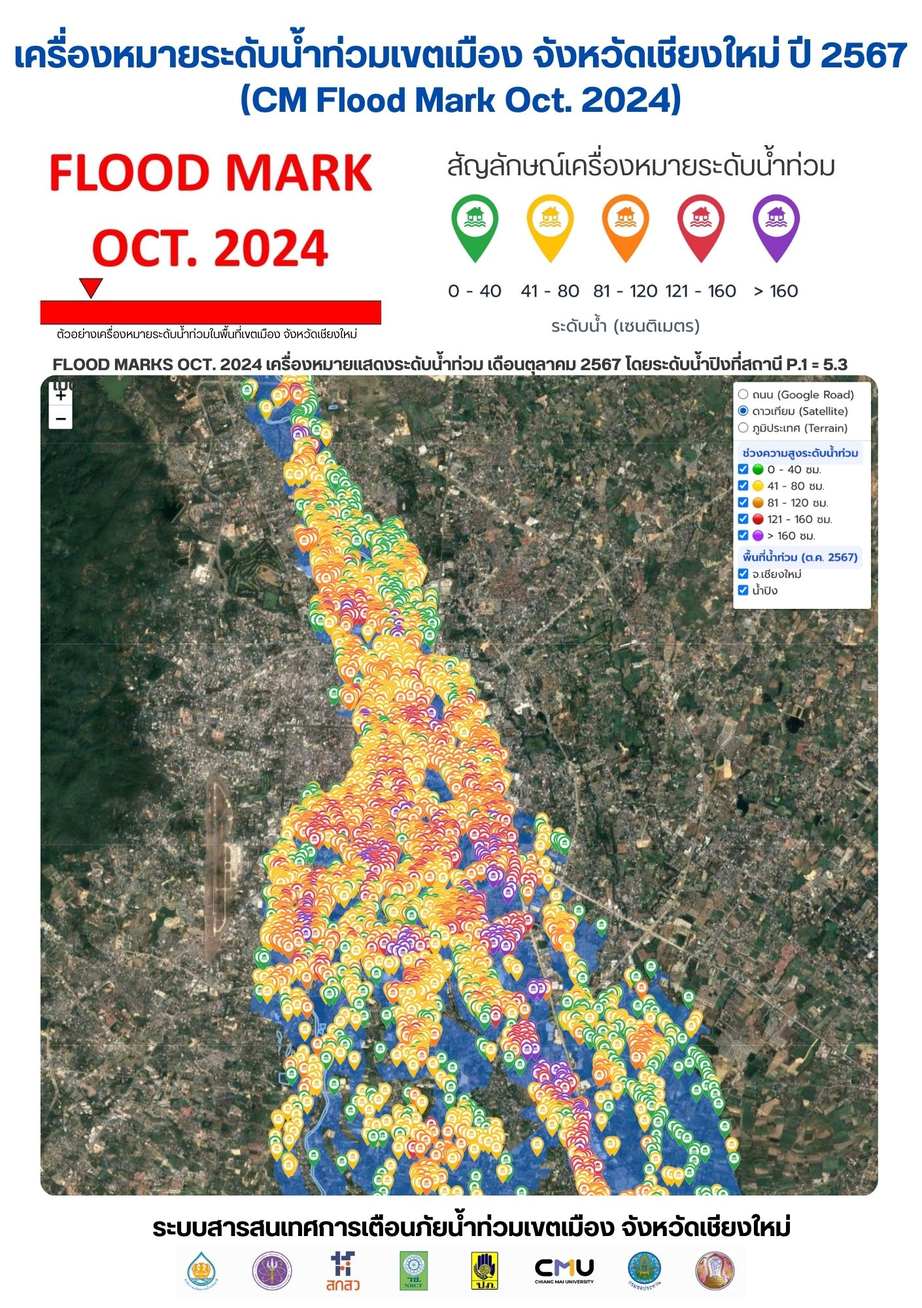
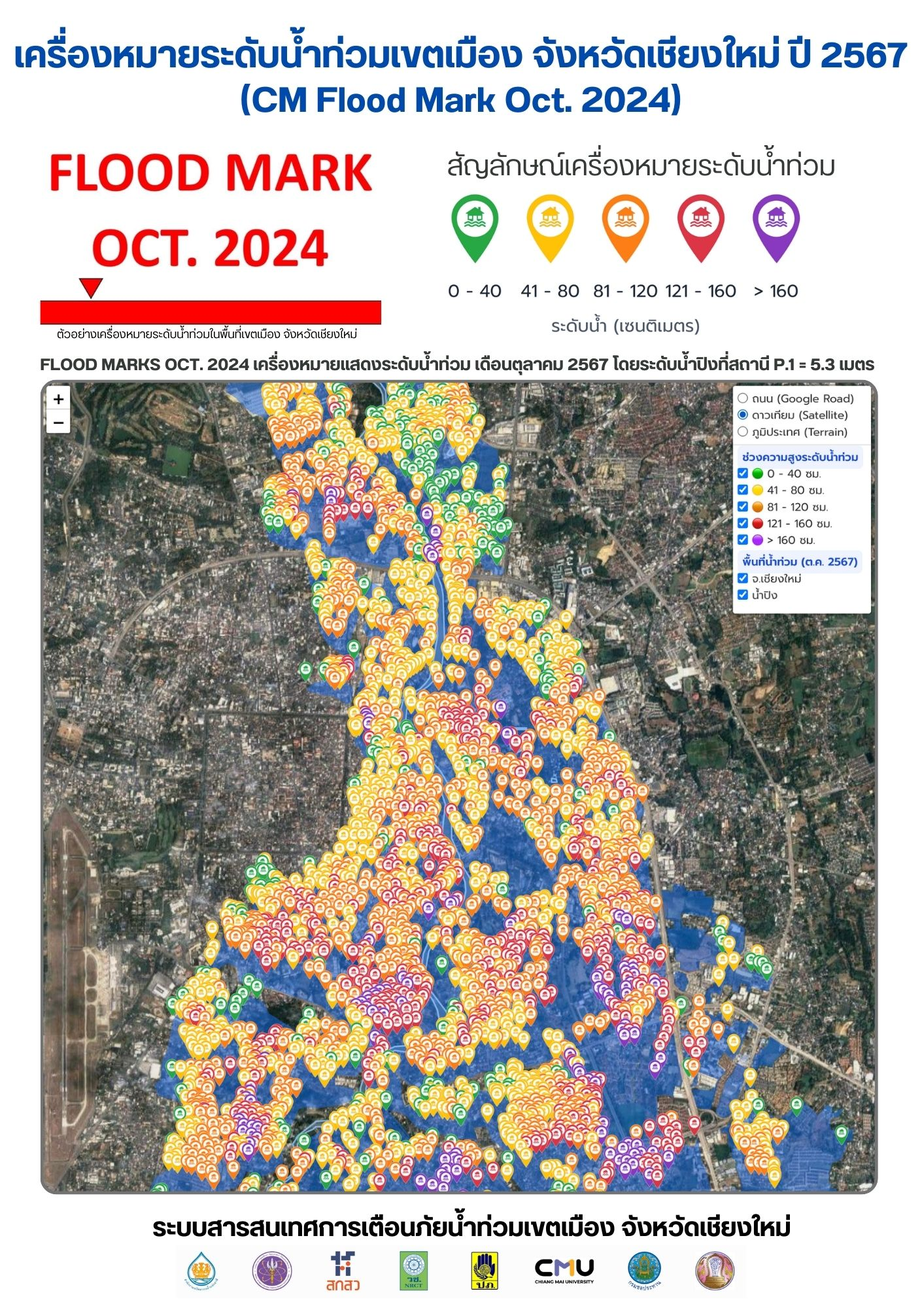
add

diff --git a/app/(protected)/floodmap2025/page.tsx b/app/(protected)/floodmap2025/page.tsx
@@ -53,7 +53,7 @@ export default function WaterDashboard() {
       id: 4,
       name: "หลักเตือนระดับน้ำท่วมเขตเมืองเชียงใหม่",
       description:
-        "เสาหลักมีช่องบอกค่าตัวเลขระดับน้ำต่างๆ ที่จะเข้าท่วมพื้นที่ โดยเทียบกับค่าระดับน้ำปิงที่สถานี P.1 สะพานนวรัฐ เมื่อทราบค่าพยากรณ์ระดับน้ำปิงที่ P.1 ให้นำตัวเลขนั้นมาเทียบกับตัวเลขบนหลัก ก็จะทรายความสูงระดับน้ำที่จะท่วมบริเวณที่มีหลักวางอยู่",
+        "เสาหลักมีช่องบอกค่าตัวเลขระดับน้ำต่างๆ ที่จะเข้าท่วมพื้นที่ โดยเทียบกับค่าระดับน้ำปิงที่สถานี P.1 สะพานนวรัฐ เมื่อทราบค่าพยากรณ์ระดับน้ำปิงที่ P.1 ให้นำตัวเลขนั้นมาเทียบกับตัวเลขบนหลัก ก็จะทราบความสูงระดับน้ำที่จะท่วมบริวณที่มีหลักวางอยู่",
       link: "/pole2025",
       images: [
         { id: 1, url: "/images/flood/levelflood2025/floodpole.jpg", title: "หลักเตือนระดับน้ำท่วมเขตเมืองเชียงใหม่" }
@@ -61,7 +61,7 @@ export default function WaterDashboard() {
     },
     {
       id: 5,
-      name: "ครื่องหมายระดับน้ำท่วมเขตเมือง จ.เชียงใหม่ ปี 2567",
+      name: "เครื่องหมายระดับน้ำท่วมเขตเมือง จ.เชียงใหม่ ปี 2567",
       description:
         "FLOOD MARKS OCT. 2024 เครื่องหมายแสดงระดับน้ำท่วม เดือนตุลาคม 2567 โดยระดับน้ำปิงที่สถานี P.1 = 5.3 เมตร เพื่อการเตือนภัยสำหรับชุมชนในพื้นที่เสี่ยงภัย จำนวน 5,000 จุด ติดตั้งกระจายทั่วพื้นที่เคยเกิดน้ำท่วมในเขตเมือง จ.เชียงใหม่ และ จ.ลำพูน โดยแสดงระดับน้ำท่วมสูงสุดวัดจากผิวถนน โดยเปรียบเทียบกับค่าระดับน้ำของแม่น้ำปิงที่สถานี P.1 เชิงสะพานนวรัฐ ซึ่งเกิดน้ำท่วมใหญ่ในเดือนตุลาคม พ.ศ. 2567 โดยที่ P.1 = 5.30 เมตร",
       link: "/floodmark",
